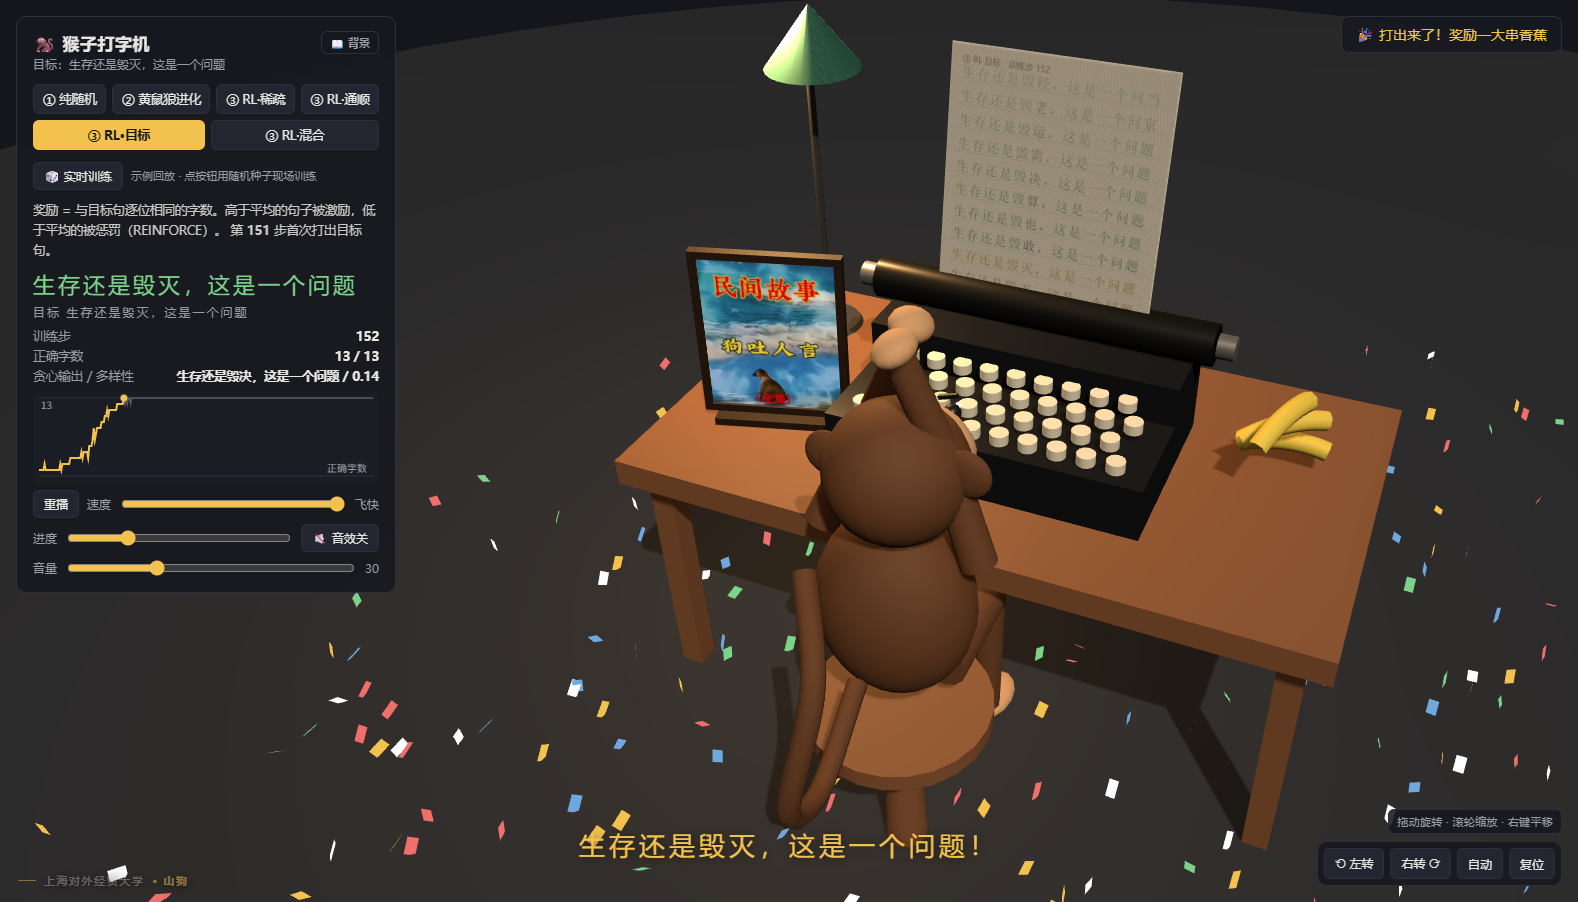
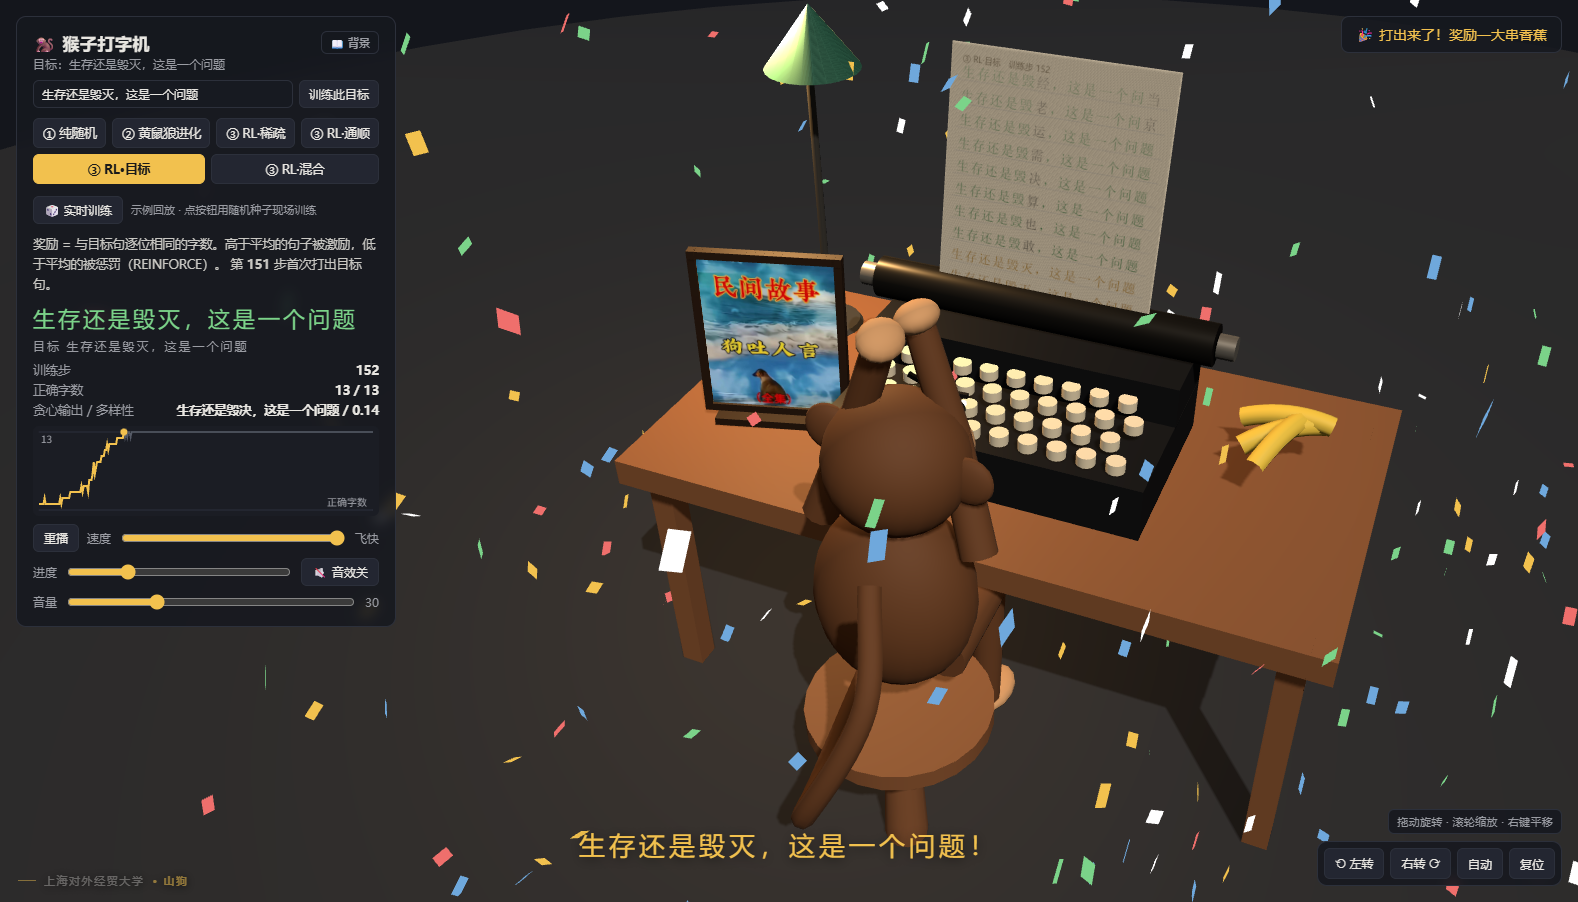
增加 4–20 字自定义目标：动态纸张/分数/图表 + 浏览器训练

diff --git a/web/main.js b/web/main.js
@@ -3,6 +3,7 @@ import { OrbitControls } from './vendor/OrbitControls.js';
 
 // ---------------------------------------------------------------- 数据
 const $ = (id) => document.getElementById(id);
+const esc = (c) => c.replace(/[&<>"']/g, (m) => ({ '&': '&amp;', '<': '&lt;', '>': '&gt;', '"': '&quot;', "'": '&#39;' }[m]));
 let R = null, TARGET = '', EXPS = {};
 const match = (s) => {
   let n = 0;
@@ -14,7 +15,7 @@ function buildExps() {
   const E = {
     random: {
       label: '① 纯随机', stepLabel: '尝试次数',
-      desc: () => `每次在 ${R.vocab_size} 个字的键盘上随机敲 13 下，没有任何反馈。` +
+      desc: () => `每次在 ${R.vocab_size} 个字的键盘上随机敲 ${TARGET.length} 下，没有任何反馈。` +
         `搜索空间约 10<sup>${R.exp1.theory.log10_search_space.toFixed(1)}</sup>，即使每秒 10 亿次，也要约 ` +
         `10<sup>${R.exp1.theory.log10_universe_ages.toFixed(1)}</sup> 个宇宙年龄。` +
         `本次 ${R.exp1.attempts.toLocaleString()} 次尝试最多只对了 ${R.exp1.best_match} 个字。`,
@@ -42,7 +43,7 @@ function buildExps() {
 }
 const RL_DESC = {
   sparse: '稀疏奖励：只有一字不差才给奖励。猴子几乎永远拿 0 分，学不到任何东西，等同于随机猴子。',
-  fluency: '只奖励"通顺"（三元语言模型打分）。猴子学会了刷分，反复敲高频片段，越来越"像话"，却离哈姆雷特越来越远。这就是 reward hacking 和模式坍缩。',
+  fluency: '只奖励"通顺"（三元语言模型打分）。猴子学会了刷分，反复敲高频片段，越来越"像话"，却离目标越来越远。这就是 reward hacking 和模式坍缩。',
   target: '奖励 = 与目标句逐位相同的字数。高于平均的句子被激励，低于平均的被惩罚（REINFORCE）。',
   mixed: '奖励 = 通顺度 + 0.6 × 正确字数。先学会"说人话"，但也可能被困在通顺的局部最优里（看多种子结果）。',
 };
@@ -255,6 +256,7 @@ for (const [k, e] of Object.entries(EXPS)) {
   tabs.appendChild(b);
 }
 $('tgt').textContent = TARGET;
+$('targetInput').value = TARGET;
 
 function select(k) {
   if (!EXPS[k]) return;
@@ -272,6 +274,7 @@ function applyResults(data) {
   R = data; TARGET = R.target;
   EXPS = buildExps();
   $('tgt').textContent = TARGET;
+  $('targetInput').value = TARGET;
   select(expKey && EXPS[expKey] ? expKey : 'weasel');
 }
 function seekTo(i) {
@@ -286,10 +289,13 @@ function seekTo(i) {
 function updateHud() {
   const f = exp.frames[fi];
   $('step').textContent = f.step.toLocaleString();
+  const L = Math.max(1, TARGET.length);
   const typed = [...f.text].slice(0, ci);
-  $('typed').innerHTML = typed.map((c, i) => `<span class="${c === TARGET[i] ? 'ok' : 'no'}">${c}</span>`).join('') + (ci < 13 ? '<span class="no">▌</span>' : '');
+  $('typed').style.fontSize = `${Math.max(13, Math.min(22, 320 / L))}px`;
+  $('typed').style.letterSpacing = `${L > 13 ? 1 : 3}px`;
+  $('typed').innerHTML = typed.map((c, i) => `<span class="${c === TARGET[i] ? 'ok' : 'no'}">${esc(c)}</span>`).join('') + (ci < L ? '<span class="no">▌</span>' : '');
   $('tline').textContent = '目标 ' + TARGET;
-  $('score').textContent = `${match(typed.join(''))} / 13`;
+  $('score').textContent = `${match(typed.join(''))} / ${L}`;
   $('extra').textContent = f.extra || '';
   $('seek').value = Math.round((fi / Math.max(1, exp.frames.length - 1)) * 1000);
   drawChart();
@@ -303,7 +309,9 @@ function finishLine() {
   const prev = fi > 0 ? exp.frames[fi - 1].score : 0;
   const last = fi >= exp.frames.length - 1;
   if (f.text === TARGET) {
-    mood = 2; celebrate = 1; burst(); $('banner').classList.add('show');
+    mood = 2; celebrate = 1; burst();
+    $('banner').textContent = TARGET + '！';
+    $('banner').classList.add('show');
     setMood('🎉 打出来了！奖励一大串香蕉', 'var(--gold)');
     Sound.success();
     playing = false; finished = true; $('play').textContent = '重播';
@@ -332,13 +340,16 @@ function drawPaper(current) {
   pctx.fillText(`${exp.label}　${exp.stepLabel} ${exp.frames[fi].step.toLocaleString()}`, 40, 60);
   const all = [...lines, current];
   const show = all.slice(-10);
-  pctx.font = '46px "SimSun","Songti SC","Noto Serif CJK SC",serif';
+  const L = Math.max(1, TARGET.length);
+  const cw = Math.min(52, (W - 80) / L);
+  const fs = Math.min(46, cw * 0.92);
+  pctx.font = `${fs}px "SimSun","Songti SC","Noto Serif CJK SC",serif`;
   show.forEach((s, li) => {
     const y = 110 + li * 78;
     [...s].forEach((c, i) => {
       pctx.fillStyle = s === TARGET ? '#b8860b' : c === TARGET[i] ? '#1e7a3a' : '#2a2a2a';
       pctx.globalAlpha = li === show.length - 1 ? 1 : 0.35 + 0.6 * (li / show.length);
-      pctx.fillText(c, 40 + i * 52, y);
+      pctx.fillText(c, 40 + i * cw, y);
     });
   });
   pctx.globalAlpha = 1;
@@ -355,16 +366,17 @@ function drawChart() {
   const w = (chart.width = chart.clientWidth * dpr), h = (chart.height = chart.clientHeight * dpr);
   cctx.clearRect(0, 0, w, h);
   const F = exp.frames, n = F.length, pad = 6 * dpr;
-  const X = (i) => pad + (i / Math.max(1, n - 1)) * (w - 2 * pad), Y = (v) => h - pad - (v / 13) * (h - 2 * pad);
+  const L = Math.max(1, TARGET.length);
+  const X = (i) => pad + (i / Math.max(1, n - 1)) * (w - 2 * pad), Y = (v) => h - pad - (v / L) * (h - 2 * pad);
   cctx.strokeStyle = '#2c303b'; cctx.lineWidth = dpr;
-  for (const v of [0, 13]) { cctx.beginPath(); cctx.moveTo(pad, Y(v)); cctx.lineTo(w - pad, Y(v)); cctx.stroke(); }
+  for (const v of [0, L]) { cctx.beginPath(); cctx.moveTo(pad, Y(v)); cctx.lineTo(w - pad, Y(v)); cctx.stroke(); }
   cctx.strokeStyle = '#555a66'; cctx.lineWidth = 1.5 * dpr; cctx.beginPath();
   F.forEach((f, i) => (i ? cctx.lineTo(X(i), Y(f.score)) : cctx.moveTo(X(i), Y(f.score)))); cctx.stroke();
   cctx.strokeStyle = '#f2c14e'; cctx.lineWidth = 2 * dpr; cctx.beginPath();
   F.slice(0, fi + 1).forEach((f, i) => (i ? cctx.lineTo(X(i), Y(f.score)) : cctx.moveTo(X(i), Y(f.score)))); cctx.stroke();
   cctx.fillStyle = '#f2c14e'; cctx.beginPath(); cctx.arc(X(fi), Y(F[fi].score), 3.5 * dpr, 0, 7); cctx.fill();
   cctx.fillStyle = '#9a9ca3'; cctx.font = `${10 * dpr}px sans-serif`;
-  cctx.fillText('13', pad + 2, Y(13) + 11 * dpr); cctx.fillText('正确字数', w - 52 * dpr, h - 10 * dpr);
+  cctx.fillText(String(L), pad + 2, Y(L) + 11 * dpr); cctx.fillText('正确字数', w - 52 * dpr, h - 10 * dpr);
 }
 
 // ---------------------------------------------------------------- 控件
@@ -583,7 +595,7 @@ function tick() {
     let guard = 0;
     while (acc >= 1 && playing && guard++ < 500) {
       acc -= 1;
-      if (ci < 13) press(); else finishLine();
+      if (ci < TARGET.length) press(); else finishLine();
     }
     updateHud();
   }
@@ -673,21 +685,38 @@ function getCorpus() {
   return corpusPromise;
 }
 let training = false;
+const targetInput = $('targetInput'), targetBtn = $('targetTrain');
+function validateTarget(raw) {
+  const s = (raw || '').trim();
+  const chars = [...s];
+  if (chars.length < 4 || chars.length > 20) return '目标需要 4–20 个字';
+  if (chars.some((c) => /\s/.test(c))) return '目标里不能有空格或换行';
+  const bad = chars.find((c) => !/[\u4e00-\u9fff\u3000-\u303f\uff00-\uffef\x21-\x7e]/.test(c));
+  if (bad) return `目标里有不支持的字符：${bad}`;
+  return '';
+}
 function trainingFailed(message) {
   training = false;
   trainingActive = false;
   $('train').disabled = false;
   $('train').textContent = '🎲 再试一次';
+  targetInput.disabled = false;
+  targetBtn.disabled = false;
+  targetBtn.textContent = '训练此目标';
   $('trainmsg').textContent = message;
 }
-function startTraining() {
+function startTraining(targetOverride) {
   if (training) return;
+  const target = (targetOverride || TARGET || '').trim();
+  const err = validateTarget(target);
+  if (err) { $('trainmsg').textContent = err; targetInput.focus(); return; }
   training = true;
   trainingActive = true;
   playing = false;
   $('play').textContent = '继续';
   const btn = $('train'), msg = $('trainmsg');
   btn.disabled = true; btn.textContent = '训练中…';
+  targetInput.disabled = true; targetBtn.disabled = true; targetBtn.textContent = '训练中…';
   msg.textContent = '加载语料…';
   const t0 = performance.now();
   let seed = 0;
@@ -709,6 +738,9 @@ function startTraining() {
         applyResults(results);
         msg.textContent = `实时训练 · 种子 ${seed} · 用时 ${secs}s`;
         btn.disabled = false; btn.textContent = '🎲 再跑一次';
+        targetInput.disabled = false;
+        targetBtn.disabled = false;
+        targetBtn.textContent = '训练此目标';
         training = false;
       } catch (err) {
         trainingFailed('应用结果失败：' + err.message);
@@ -723,17 +755,28 @@ function startTraining() {
       else if (d.type === 'error') { worker.terminate(); trainingFailed('训练出错：' + d.message); }
     };
     worker.onerror = (err) => { worker.terminate(); trainingFailed('Worker 出错：' + (err.message || err)); };
-    worker.postMessage({ seed, corpus });
+    worker.postMessage({ seed, corpus, target });
   }).catch((err) => trainingFailed('读不到 data/corpus.txt：' + err.message));
 }
-$('train').onclick = startTraining;
+$('train').onclick = () => startTraining();
+function applyCustomTarget() {
+  if (training) return;
+  const s = targetInput.value;
+  const err = validateTarget(s);
+  if (err) { $('trainmsg').textContent = err; targetInput.focus(); return; }
+  startTraining(s.trim());
+}
+targetBtn.onclick = applyCustomTarget;
+targetInput.addEventListener('keydown', (e) => {
+  if (e.key === 'Enter') { e.preventDefault(); applyCustomTarget(); }
+});
 getCorpus().catch(() => {}); // 提前预取，点按钮时不用等
 
 // ---------------------------------------------------------------- 背景浮层
 const INTRO_LINES = [
   '如果让一只猴子在打字机上随机敲键，只要时间足够长，它几乎必然会敲出莎士比亚的作品。',
   '这就是<em>无限猴子定理</em>：一个几乎不可能的事件，在无限次独立尝试下，概率趋近于 1。',
-  '但它只回答“会不会”，不回答“要多久”。373 个字符，13 个字，期望尝试次数约 10<sup>33.4</sup>。',
+  '但它只回答“会不会”，不回答“要多久”。以默认的 373 个字符、13 个字为例，期望尝试次数约 10<sup>33.4</sup>。',
   '即使每秒尝试 10 亿次，也要约 620 万个宇宙年龄。',
   '所以真正的题目不是“等”，而是“怎样让它发生”。',
   '1986 年，Dawkins 用<em>黄鼠狼程序</em>演示了累积选择：保留已经对了一点点的中间结果，让指数搜索变成爬山。',
@@ -873,6 +916,7 @@ window.__monkey = {
   intro: { open: openIntro, close: closeIntro, get isOpen() { return introOpen; }, get index() { return introIdx; } },
   get summary() {
     return {
+      target: TARGET,
       seed: R.seed, gens: R.exp2.generations, evals: R.exp2.evaluations,
       best: R.exp1.best_match,
       hits: Object.fromEntries(Object.entries(R.exp3).map(([k, v]) => [k, v.hit_step])),

diff --git a/web/index.html b/web/index.html
@@ -19,7 +19,17 @@
   #about { background:transparent; border:1px solid var(--line); color:var(--dim); border-radius:6px;
            padding:3px 8px; font:inherit; font-size:11px; letter-spacing:0; cursor:pointer; flex:none; }
   #about:hover { color:var(--fg); border-color:var(--gold); }
-  .sub { color:var(--dim); font-size:12px; margin-bottom:12px; }
+  .sub { color:var(--dim); font-size:12px; margin-bottom:8px; }
+  .targetedit { display:flex; gap:6px; margin:0 0 10px; }
+  .targetedit input { flex:1; min-width:0; background:#171a21; color:var(--fg); border:1px solid var(--line);
+                       border-radius:6px; padding:5px 8px; font:inherit; font-size:12px; }
+  .targetedit input:focus { outline:none; border-color:var(--gold); }
+  .targetedit input::placeholder { color:#6d6f77; }
+  .targetedit input:disabled { opacity:.55; }
+  .targetedit button { background:#232631; color:var(--fg); border:1px solid var(--line); border-radius:6px;
+                       padding:5px 9px; font:inherit; font-size:12px; cursor:pointer; white-space:nowrap; flex:none; }
+  .targetedit button:hover { border-color:var(--gold); }
+  .targetedit button:disabled { opacity:.55; cursor:wait; }
   .tabs { display:flex; flex-wrap:wrap; gap:6px; margin-bottom:12px; }
   .tabs button { flex:1 1 auto; background:#232631; color:var(--fg); border:1px solid var(--line); border-radius:6px;
                  padding:6px 8px; font:inherit; font-size:12.5px; cursor:pointer; }
@@ -138,6 +148,11 @@
 <div id="hud">
   <h1><span>🐒 猴子打字机</span><button id="about" title="项目背景：无限猴子定理">📖 背景</button></h1>
   <div class="sub">目标：<span id="tgt"></span></div>
+  <div class="targetedit">
+    <input id="targetInput" maxlength="20" placeholder="自定义目标（4–20 字）" autocomplete="off" spellcheck="false"
+           title="4–20 个字；目标里的新字会加入键盘，通顺度评分可能偏低">
+    <button id="targetTrain">训练此目标</button>
+  </div>
   <div class="tabs" id="tabs"></div>
   <div class="train">
     <button id="train">🎲 实时训练</button>
@@ -147,7 +162,7 @@
   <div class="typed" id="typed"></div>
   <div class="target" id="tline"></div>
   <div class="row"><span id="stepLabel">步</span><b id="step">0</b></div>
-  <div class="row"><span>正确字数</span><b id="score">0 / 13</b></div>
+  <div class="row"><span>正确字数</span><b id="score">0 / —</b></div>
   <div class="row" id="extraRow"><span id="extraLabel"></span><b id="extra"></b></div>
   <canvas id="chart"></canvas>
   <div class="ctrl">

diff --git a/web/train.js b/web/train.js
@@ -4,7 +4,8 @@
  */
 'use strict';
 
-const TARGET = '生存还是毁灭，这是一个问题';
+const DEFAULT_TARGET = '生存还是毁灭，这是一个问题';
+let TARGET = DEFAULT_TARGET;
 const BOS = '^', EOS = '$';
 
 // ---------------------------------------------------------------- 随机数
@@ -204,8 +205,9 @@ function runExp2(vocab, rand) {
 // ---------------------------------------------------------------- 实验③：REINFORCE
 function runExp3(vocab, lm, mode, seed, onProgress) {
   const V = vocab.length, L = TARGET.length, BOSI = V;
-  // 浏览器演示用 300 步（报告里的 Python 版是 600 步）；目标/混合通常在 120–180 步命中
-  const steps = 300, batch = 64, lr = 0.05, wTarget = 0.6, entropy = 0.01, logEvery = 1;
+  // 默认目标 300 步；目标更长时适当加步数（最多 600 步）
+  const steps = Math.min(600, 300 + Math.max(0, L - 13) * 25);
+  const batch = 64, lr = 0.05, wTarget = 0.6, entropy = 0.01, logEvery = 1;
   const uniform = mode === 'sparse'; // 稀疏奖励几乎恒为 0，策略保持均匀，可直接均匀采样
   const rand = mulberry32(seed);
   const tgt = new Int16Array(L);
@@ -387,7 +389,8 @@ function runExp3(vocab, lm, mode, seed, onProgress) {
 
 // ---------------------------------------------------------------- Worker 入口
 self.onmessage = (e) => {
-  const { seed, corpus } = e.data;
+  const { seed, corpus, target } = e.data;
+  TARGET = (target || DEFAULT_TARGET).trim();
   const t0 = performance.now();
   const report = (pct, label) => self.postMessage({ type: 'progress', pct: Math.round(pct), label });
   try {

diff --git a/README.md b/README.md
@@ -288,6 +288,7 @@ monkey-type/
 
 - **背景开场**：第一次打开时，镜头转到侧面，开场文字在左侧的黑背景中逐句浮现；读过的句子沉入黑色，当前句亮起。点击画面继续、`Esc` 关闭，底部可以重播或直接进入演示；之后随时可以点 HUD 里的「📖 背景」重看。
 - **六个标签页**：① 纯随机、② 黄鼠狼进化、③ RL·稀疏 / 通顺 / 目标 / 混合。切换即换实验。
+- **自定义目标**：HUD 顶部输入 4–20 个字，点「训练此目标」；目标里的新字会自动加入键盘，语料外的字也能打，但通顺度评分会偏低。示例回放仍是固定目标，自定义目标走实时训练；目标越长，RL 步数自动增加（13 字 300 步，20 字 475 步）。自定义目标只在浏览器实时训练里生效，`run_all.py` 生成的报告数据仍用默认目标。
 - **逐字打字**：每个回放帧是一行日志（一次尝试、一代、或一个训练步）；猴子一个字一个字敲，纸面上绿色=位置正确，灰色=不正确。
 - **实时分数**：正确字数、训练步/代数、贪心输出、distinct-2。
 - **奖励/惩罚反馈**：比上一帧进步 → 点头、举香蕉、顶部"🍌 激励！"；退步 → 摇头、皱眉、"⚡ 惩罚！"；命中目标 → 起立欢呼、撒彩纸、显示"生存还是毁灭，这是一个问题！"。
@@ -299,28 +300,30 @@ monkey-type/
 - **控制**：暂停/继续、速度滑块（1–60，默认 6 字/秒，超过 40 后加速到"飞快"）、进度条拖动。
 - **重播**：一次实验播完后按钮变成"重播"，点击从头开始。
 
+![自定义目标：输入 8 个字后现场训练](outputs/figures/custom_target.png)
+
 ![背景开场：文字从左侧黑背景中逐句浮现，读过的句子沉入黑色](outputs/figures/intro_background.png)
 
-**两种模式**：默认用 `run_all.py` 生成的 `results.json` 做**示例回放**；点 HUD 里的「🎲 实时训练」则在浏览器里**现场重跑**（见下一节）。示例回放的好处：
+**三种入口**：默认用 `run_all.py` 生成的 `results.json` 做**示例回放**；点 HUD 里的「🎲 实时训练」则在浏览器里**现场重跑**（见下一节）；在顶部输入自定义目标后点「训练此目标」，会用这个目标重跑三个实验。示例回放的好处：
 
 - 打开网页不需要等训练，几秒就能看完整个实验；
 - 结果可复现（固定随机种子），网页展示的就是报告里的数据；
 - Three.js 全部本地化，断网也能用。
 
-**已验证**：在 Chrome headless（SwiftShader）下加载，控制台无报错；六个标签页、拖动旋转、滚轮缩放、自动环绕、复位、背景开场（逐句浮现 / 已读变黑 / 镜头切换与恢复）、桌面相框、命中庆祝、"重播"、音效开关（敲击 / 成功 / 失败触发）均验证正常；实时训练连续跑两次得到不同的种子、黄鼠狼代数和 RL 命中步，训练完成后自动替换数据并播放。
+**已验证**：在 Chrome headless（SwiftShader）下加载，控制台无报错；六个标签页、拖动旋转、滚轮缩放、自动环绕、复位、背景开场（逐句浮现 / 已读变黑 / 镜头切换与恢复）、桌面相框、命中庆祝、"重播"、音效开关（敲击 / 成功 / 失败触发）均验证正常；实时训练连续跑两次得到不同的种子、黄鼠狼代数和 RL 命中步，训练完成后自动替换数据并播放；自定义目标分别用 8 字和 20 字验证了输入、训练、纸张排版与分数。
 
 ### 实时训练（浏览器内置）
 
-页面打开时先用 `results.json` 做示例回放；点 HUD 里的 **🎲 实时训练**，会在 Web Worker 里用新的随机种子把三个实验重跑一遍（① 随机 400 万次、② 黄鼠狼、③ RL 四种奖励各 300 步），完成后自动替换数据并播放。
+页面打开时先用 `results.json` 做示例回放；点 HUD 里的 **🎲 实时训练**，会在 Web Worker 里用新的随机种子把三个实验重跑一遍（① 随机 400 万次、② 黄鼠狼、③ RL 四种奖励各 300 步，目标更长时自动加到最多 475 步），完成后自动替换数据并播放。自定义目标也走同一条链路：输入 4–20 字，目标中的新字会加入键盘，语料外的字通顺度评分会偏低。
 
 - 每次种子不同 → 黄鼠狼的代数、RL 的命中步、曲线、混合奖励的成败都会不同；
-- 目标句固定，所以成功时打出的仍然是「生存还是毁灭，这是一个问题」，变化的是**过程**；
+- 不输入自定义目标时，成功时打出默认的「生存还是毁灭，这是一个问题」；自定义目标则打出输入的目标，变化的是**过程**和**目标句**；
 - 训练期间 3D 画面暂停，HUD 显示「①/②/③ 进度」，完成后显示种子和用时；
 - 不依赖 Python / Pyodide：`web/train.js` 就是内置的学习代码，纯静态网页即可运行；
-- 与 Python 版的差异：JS 用 mulberry32 随机数、RL 用 300 步（报告版 600 步），所以数字不会和报告一一对应，算法是一致的；报告数据仍以 `run_all.py` 为准；
+- 与 Python 版的差异：JS 用 mulberry32 随机数、RL 默认 300 步（长目标最多 475 步；报告版 600 步），所以数字不会和报告一一对应，算法是一致的；报告数据仍以 `run_all.py` 为准；
 - 刷新页面回到示例回放；实时结果只存在内存里，不写回 `results.json`。
 
-训练时间取决于 CPU，桌面浏览器通常几秒到十几秒；headless + SwiftShader 的测试环境约 9–14 秒。
+训练时间取决于 CPU，桌面浏览器默认目标通常几秒到十几秒；headless + SwiftShader 的测试环境约 9–14 秒，20 字目标约 18 秒。
 
 ---
 
@@ -380,7 +383,7 @@ monkey-type/
   - `exp2.history[]`：`gen`, `best`, `fitness`；`exp2.sweep[]`：`pop`, `mu`, `mean_gen`, `hit_rate`；
   - `exp3[mode].history[]`：`step`, `reward`, `fluency`, `match`, `best`, `greedy`, `distinct2` 等；
   - `exp3_seeds`：每种模式的命中步列表（`null` 表示未命中）。
-- **抽稀**：Python 版写 `results.json` 时只保留 200–400 个历史点（保留首尾）；实时版每 2 步记录一次，共 300 步。
+- **抽稀**：Python 版写 `results.json` 时只保留 200–400 个历史点（保留首尾）；实时版每 2 步记录一次，默认目标 300 步，长目标最多 475 步。
 - **浏览器要求**：支持 ES module + WebGL 的现代浏览器（Chrome / Edge / Firefox / Safari 均可）。已在 Chrome（headless + SwiftShader）验证。
 - **诊断脚本**：`tools/diag_mixed.py` 可复现 `mixed` 失败种子的最终输出，结果在 `outputs/mixed_failures.json`。
 

diff --git a/PRESENTATION_SEQ.md b/PRESENTATION_SEQ.md
@@ -191,7 +191,7 @@
 
 **Q3：为什么是中文、13 个字？**
 
-> 中文可以按字建模，字符集 373 个；13 个字让搜索空间仍有 10^33.4，足够说明“不可能”，同时训练和演示能控制在几秒到十几秒。
+> 中文可以按字建模，字符集 373 个；13 个字让搜索空间仍有 10^33.4，足够说明“不可能”，同时训练和演示能控制在几秒到十几秒。网页也支持 4–20 字自定义目标，输入后会现场重训；报告里的数据仍用默认目标。
 
 **Q4：为什么黄鼠狼会长时间卡在一个固定句子里？**
 
